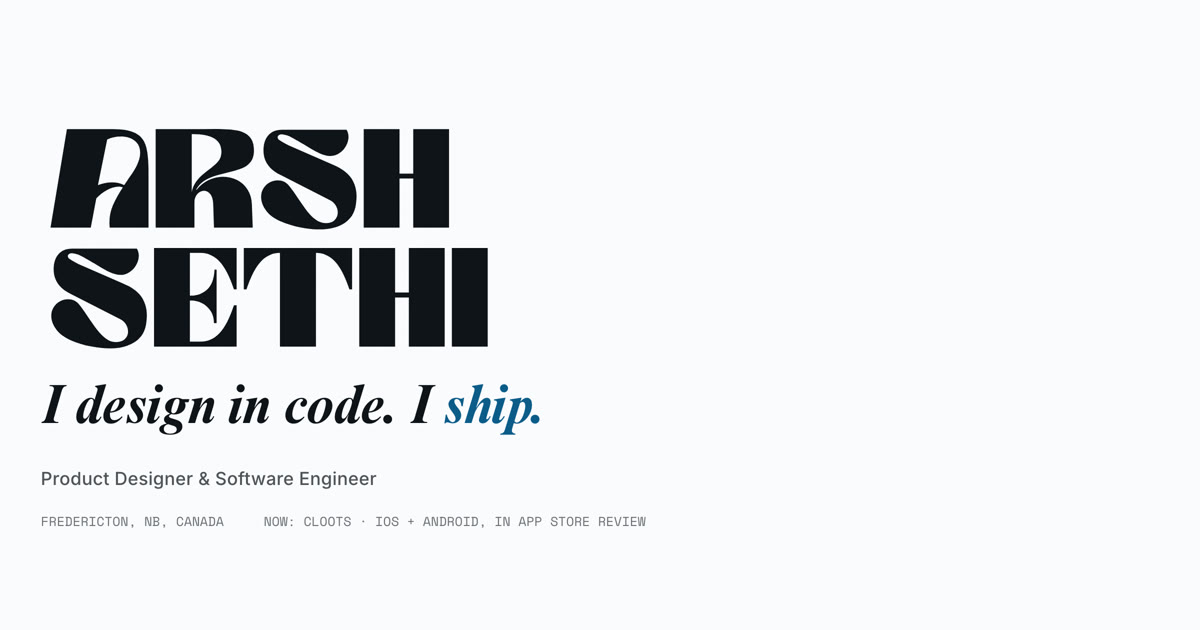
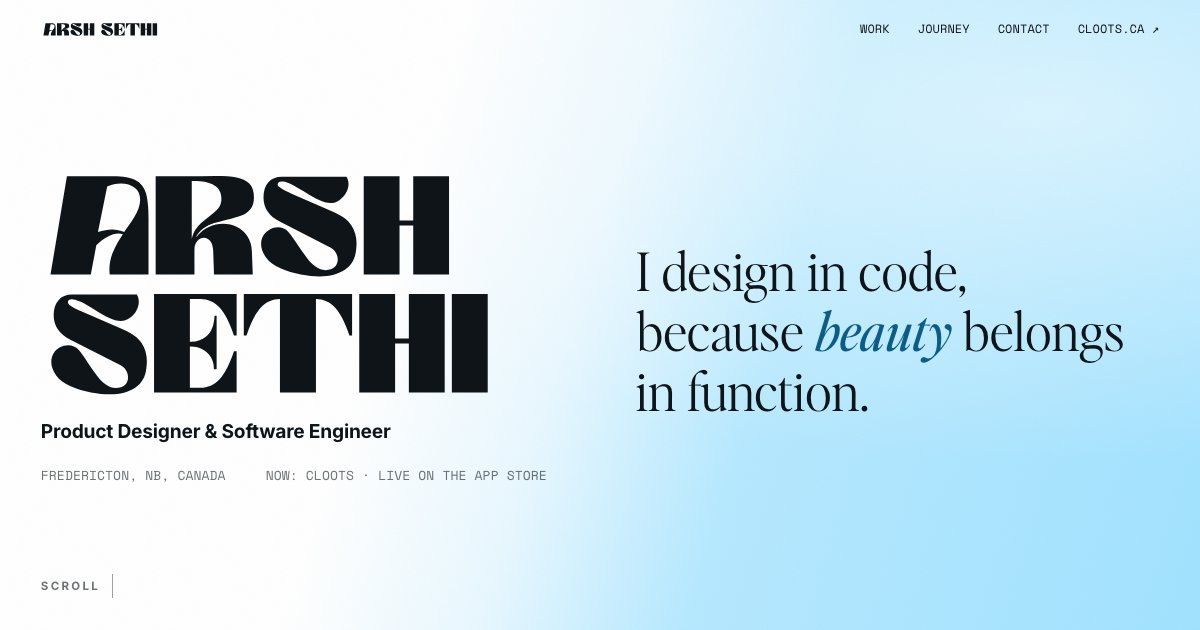
og and hero status: app is live on the App Store
The link-preview card (LinkedIn Featured) was showing the retired hero
line: og:description and the og image both predated the current hero and
still said IN APP STORE REVIEW. Meta descriptions rewritten to the
current line, both status strings updated iOS-scoped (Play unconfirmed),
og-hero.jpg reshot from the settled reduced-motion hero at 1200x630.

diff --git a/index.html b/index.html
@@ -6,9 +6,9 @@
 <meta name="theme-color" content="#FBFDFF">
 <meta name="color-scheme" content="light">
 <title>Arsh Sethi · Product Designer &amp; Software Engineer</title>
-<meta name="description" content="Product designer and software engineer in Fredericton, NB. I design in code and I ship: Cloots, an AI fashion discovery app on iOS and Android; client work at DAP Atlantic; and Android apps going back to 2022.">
+<meta name="description" content="Product designer and software engineer in Fredericton, NB. I design in code, because beauty belongs in function: Cloots, an AI fashion discovery app live on the App Store; client work at DAP Atlantic; and Android apps going back to 2022.">
 <meta property="og:title" content="Arsh Sethi · Product Designer &amp; Software Engineer">
-<meta property="og:description" content="Product designer and software engineer in Fredericton, NB. I design in code and I ship: Cloots, an AI fashion discovery app on iOS and Android; client work at DAP Atlantic; and Android apps going back to 2022.">
+<meta property="og:description" content="Product designer and software engineer in Fredericton, NB. I design in code, because beauty belongs in function: Cloots, an AI fashion discovery app live on the App Store; client work at DAP Atlantic; and Android apps going back to 2022.">
 <meta property="og:type" content="website">
 <meta property="og:url" content="https://codebytitan.github.io/">
 <meta property="og:image" content="https://codebytitan.github.io/assets/og-hero.jpg">
@@ -1021,7 +1021,7 @@ html:not(.js) .loop-card[aria-hidden],html:not(.js) .loop-track{display:none}
       <p class="hero-role" id="heroRole">Product Designer &amp; Software Engineer</p>
       <div class="hero-meta" id="heroMeta">
         <span>FREDERICTON, NB, CANADA</span>
-        <span>NOW: CLOOTS · IOS + ANDROID, IN APP STORE REVIEW</span>
+        <span>NOW: CLOOTS · LIVE ON THE APP STORE</span>
       </div>
     </div>
     <!-- The right half is the frost side of the seam, and the line lives here
@@ -1359,7 +1359,7 @@ html:not(.js) .loop-card[aria-hidden],html:not(.js) .loop-track{display:none}
       <span class="line-mask"><span class="ship-line">Shipped as a team.</span></span>
       <span class="line-mask"><span class="ship-line">Tr&egrave;s beau.</span></span>
     </h3>
-    <span class="mono">IOS + ANDROID · IN APP STORE REVIEW</span>
+    <span class="mono">IOS + ANDROID · LIVE ON THE APP STORE</span>
     <a class="pill" href="https://cloots.ca" target="_blank" rel="noopener" data-cursor="OPEN" data-magnetic>Visit cloots.ca &#8599;</a>
   </div>
 </section>

diff --git a/CLAUDE.md b/CLAUDE.md
@@ -1918,7 +1918,13 @@ Review renders accumulate in `_source/review/` (gitignored).
 4. **Editor's Note and Futura ship as font files**, which the settled licence
    position did not cover. See 4.4.
 5. **The og-image** regenerates from the live hero; re-run it after visual
-   changes.
+   changes. DONE 2026-09-07: regenerated at 1200x630 under reduced motion (the
+   typewriter caret photobombs a timed shot; reduced motion is the settled
+   state). Same pass: the app cleared review (verified live,
+   apps.apple.com id6799536166), so og/meta descriptions and the two
+   IN APP STORE REVIEW strings became LIVE ON THE APP STORE, iOS-scoped
+   because Google Play status is unconfirmed. LinkedIn caches og scrapes;
+   re-scrape via linkedin.com/post-inspector after any og change.
 6. **Deployed, 2026-08-30**: https://codebytitan.github.io serves this branch
    through the Pages workflow (2.7). Still open from the deploy: the font
    licences are now a public matter (8.4), the og image should be regenerated
